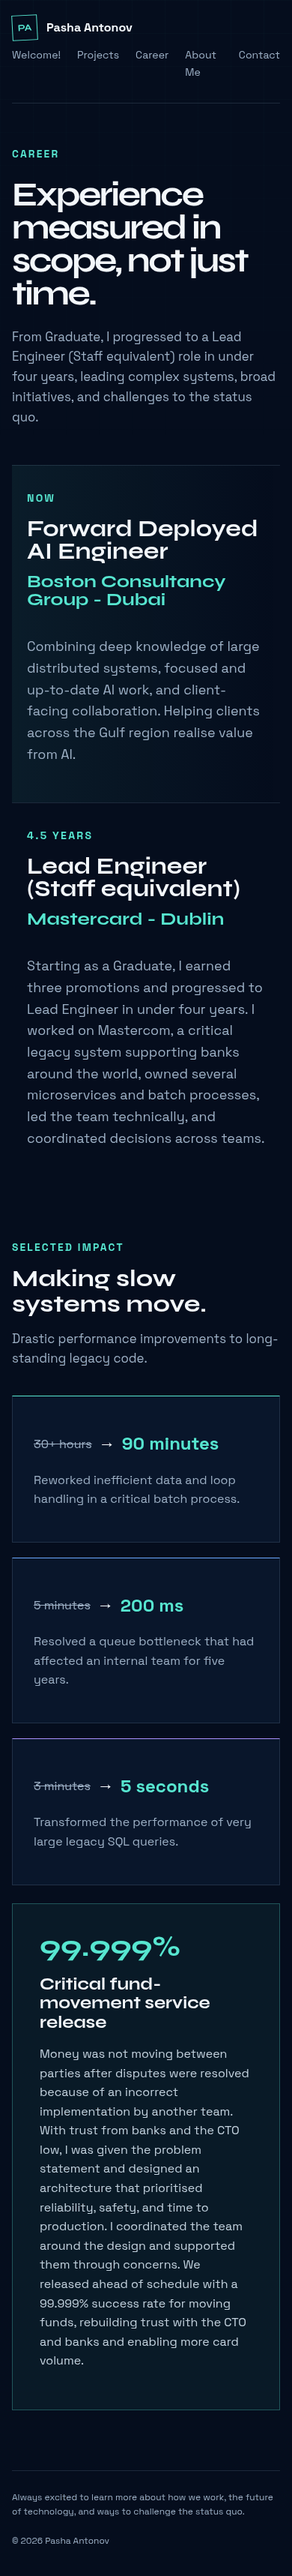
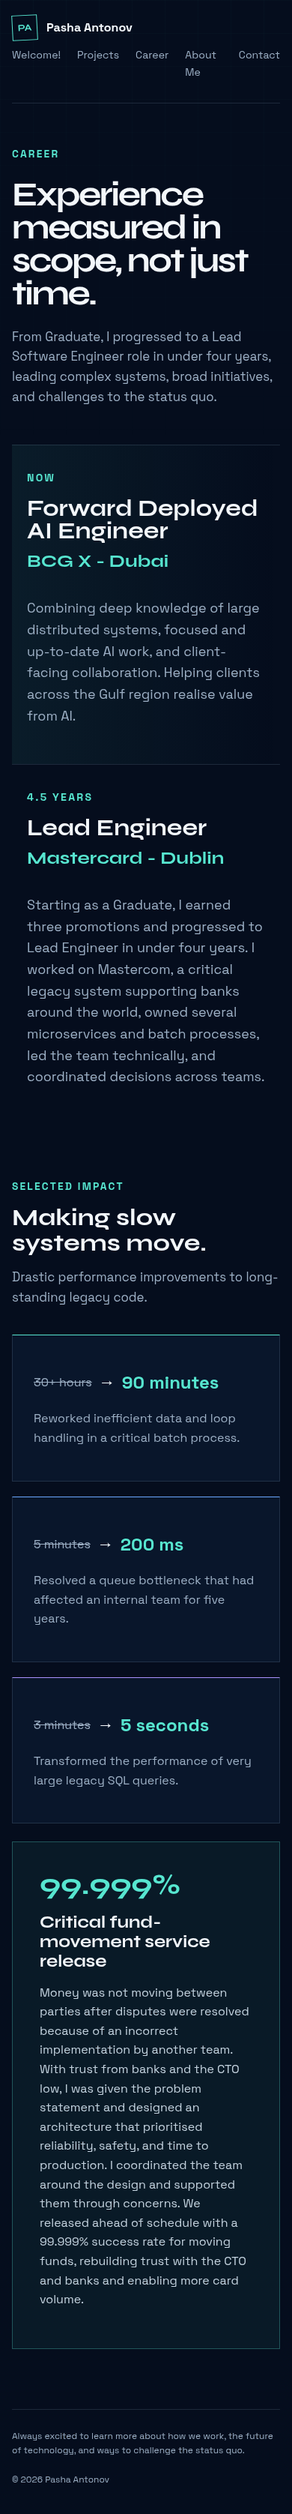
Refine BCG X and Mastercard role copy

diff --git a/app/page.tsx b/app/page.tsx
@@ -8,18 +8,18 @@ export default function Home() {
       <section className="hero section-wrap">
         <div className="hero-copy">
           <p className="eyebrow">
-            <span className="status-dot" /> Forward Deployed AI Engineer at
-            Boston Consultancy Group in Dubai
+            <span className="status-dot" /> Forward Deployed AI Engineer at BCG
+            X in Dubai
             <span className="previous-role">
-              Previously Lead Engineer (Staff equivalent) at Mastercard
+              Previously Lead Software Engineer at Mastercard
             </span>
           </p>
           <h1>
             I turn ambiguous problems into <em>clear outcomes.</em>
           </h1>
           <p className="hero-lede">
-            I’m Pasha Antonov, a former Lead Engineer at Mastercard, an AI
-            engineer, and a hands-on builder who thrives in uncertainty and
+            I’m Pasha Antonov, a former Lead Software Engineer at Mastercard, an
+            AI engineer, and a hands-on builder who thrives in uncertainty and
             helps people find a clear way forward.
           </p>
           <div className="button-row">
@@ -35,7 +35,7 @@ export default function Home() {
               <dt>
                 Under <strong>four years</strong>
               </dt>
-              <dd>Graduate to Lead Software Engineer (Staff equivalent)</dd>
+              <dd>Graduate to Lead Software Engineer</dd>
             </div>
             <div>
               <dt>99.999% release success</dt>

diff --git a/app/career/page.tsx b/app/career/page.tsx
@@ -28,18 +28,16 @@ export default function CareerPage() {
         title="Experience measured in scope, not just time."
       >
         <p>
-          From Graduate, I progressed to a Lead Engineer (Staff equivalent) role
-          in under four years, leading complex systems, broad initiatives, and
-          challenges to the status quo.
+          From Graduate, I progressed to a Lead Software Engineer role in under
+          four years, leading complex systems, broad initiatives, and challenges
+          to the status quo.
         </p>
       </PageIntro>
       <section className="career-feature">
         <div>
           <p className="eyebrow career-kicker">Now</p>
           <h2>Forward Deployed AI Engineer</h2>
-          <p className="company company-prominent">
-            Boston Consultancy Group - Dubai
-          </p>
+          <p className="company company-prominent">BCG X - Dubai</p>
         </div>
         <p>
           Combining deep knowledge of large distributed systems, focused and
@@ -50,7 +48,7 @@ export default function CareerPage() {
       <section className="career-feature muted-feature">
         <div>
           <p className="eyebrow career-kicker">4.5 years</p>
-          <h2>Lead Engineer (Staff equivalent)</h2>
+          <h2>Lead Engineer</h2>
           <p className="company company-prominent">Mastercard - Dublin</p>
         </div>
         <p>

diff --git a/tests/e2e/navigation.spec.ts b/tests/e2e/navigation.spec.ts
@@ -80,7 +80,16 @@ test("project and contact links point to approved destinations", async ({
 test("proposal content and ordering are rendered", async ({ page }) => {
   await page.goto("/");
   await expect(page.locator(".hero-copy .eyebrow")).toContainText(
-    "Forward Deployed AI Engineer at Boston Consultancy Group in Dubai",
+    "Forward Deployed AI Engineer at BCG X in Dubai",
+  );
+  await expect(page.locator(".previous-role")).toHaveText(
+    "Previously Lead Software Engineer at Mastercard",
+  );
+  await expect(page.locator(".hero-lede")).toContainText(
+    "a former Lead Software Engineer at Mastercard",
+  );
+  await expect(page.locator(".hero-stats dd").first()).toHaveText(
+    "Graduate to Lead Software Engineer",
   );
 
   await page.goto("/projects");
@@ -100,8 +109,12 @@ test("proposal content and ordering are rendered", async ({ page }) => {
   ).toBeVisible();
 
   await page.goto("/career");
+  await expect(page.getByText("BCG X - Dubai", { exact: true })).toBeVisible();
+  await expect(page.locator(".page-intro")).toContainText(
+    "I progressed to a Lead Software Engineer role",
+  );
   await expect(
-    page.getByText("Boston Consultancy Group - Dubai", { exact: true }),
+    page.getByRole("heading", { level: 2, name: "Lead Engineer", exact: true }),
   ).toBeVisible();
   await expect(
     page.getByText("Mastercard - Dublin", { exact: true }),

diff --git a/PROPOSALS_V5.md b/PROPOSALS_V5.md
@@ -1,0 +1,12 @@
+# Main Page
+
+- rename "Forward Deployed AI Engineer at Boston Consultancy Group in Dubai" to "Forward Deployed AI Engineer at BCG X in Dubai"
+- rename "Previously Lead Engineer (Staff equivalent) at Mastercard" to "Previously Lead Software Engineer at Mastercard"
+- rename "a former Lead Engineer at Mastercard," to "a former Lead Sofware Engineer at Mastercard,"
+- rename "Graduate to Lead Software Engineer (Staff equivalent)" to "Graduate to Lead Software Engineer"
+
+# Career
+
+- rename "I progressed to a Lead Engineer (Staff equivalent) " to "I progressed to a Lead Software Engineer"
+- rename "Boston Consultancy Group - Dubai" to "BCG X - Dubai"
+- rename "Lead Engineer (Staff equivalent)" to "Lead Engineer"

diff --git a/CHANGELOG.md b/CHANGELOG.md
@@ -36,3 +36,5 @@ in `SPEC.md`; this file records what changed rather than what is planned.
 - Expanded the BCG company label on the Welcome and Career pages.
 - Added Dubai and Dublin location context to the BCG and Mastercard role
   labels.
+- Updated Welcome and Career role labels to use BCG X and Lead Software
+  Engineer wording, removing the Staff-equivalent qualifier.
